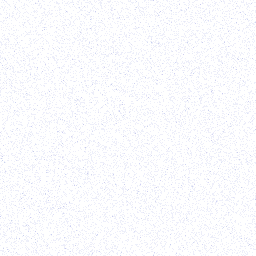
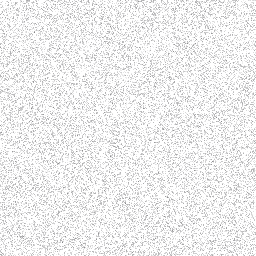
blob less shit but still ass

Changed region(s): [[0.0, 0.0, 1.0, 1.0]]

diff --git a/components/BlobMorph.tsx b/components/BlobMorph.tsx
@@ -134,23 +134,54 @@ const MESH_SETTLE_START = 0.55;            // begin calming before shape lock
 const MESH_SETTLE_END = KEY_RIGID_PROGRESS; // fully calm once key is rigid
 
 /* --- Blob film grain (visual layer only) --------------------------------
-   TWO static grain layers + a directional veil + a soft inner sheen, all
+   A single soft grain layer + a directional veil + a soft inner sheen, all
    clipped to the blob silhouette. Not filters, not animated, not per-frame:
-   static <pattern>+<rect> pairs feeding phase-linked opacities (React render
-   values). Tiles: public/blob-grain.png (~20-25% density, cool off-white
-   specks, sparkle tail to 0.85) and public/blob-grain-coarse.png (~4%
-   density, soft violet clumps). Strength lerps the *_ALIVE -> *_CALM constants
-   with the mesh settle; the lerped view opacity is clamped to SVG's 0..1
-   range so the whole fade is visible across the settle. Static, so reduced
-   motion needs no special case. */
+   a static <pattern>+<rect> feeding a phase-linked opacity (React render
+   value). Tile: public/blob-grain.png (soft neutral-gray film grain, ~40%
+   density, alpha ~0.25). Strength lerps GRAIN_ALIVE -> GRAIN_CALM with the
+   mesh settle; the lerped view opacity is clamped to SVG's 0..1 range.
+   Static, so reduced motion needs no special case. */
 const GRAIN_ALIVE = 1;
 const GRAIN_CALM = 0.35;
 const GRAIN_TILE_PX = 256; // tile edge in px (density lives in the tile itself)
 
-/* Coarse clump layer: faint violet dust read between the fine texels.
-   Sits under the fine grain and nearly vanishes in the calm state. */
-const COARSE_ALIVE = 1;
-const COARSE_CALM = 0.2;
+/* --- Drifting dark-gray gradients (visual layer only) -------------------
+   Broad, soft tonal shifts riding under the grain, like light moving across
+   a matte surface. Pure-translate CSS animation only (no filters/masks);
+   each circle carries its own duration + travel via CSS custom props, and
+   its phase-linked opacity from React (per-circle, avoiding a group blur
+   layer). MESH_GRAY_ALIVE -> MESH_GRAY_CALM with the mesh settle, so the key
+   resolves on near-pure black. Peak stop alphas are tuned to the luminance
+   budget (see measure notes); the largest circle gets the higher peak. */
+const MESH_GRAY_ALIVE = 1;
+const MESH_GRAY_CALM = 0.1;
+const MESH_GRAY_COLOR = "#2b2b31"; // peak gray, very slight cool lean
+/* Eased radial falloff (offset, factor-of-peak) — 6 stops so no ring/edge. */
+const MESH_GRAY_STOPS: ReadonlyArray<readonly [number, number]> = [
+  [0, 1],
+  [0.22, 0.72],
+  [0.42, 0.48],
+  [0.62, 0.26],
+  [0.82, 0.1],
+  [1, 0],
+];
+/* cx, cy, r (viewBox units), peak stop alpha, animation duration (s), and
+   per-axis travel (viewBox units each way). */
+const MESH_GRAY_CIRCLES: ReadonlyArray<{
+  readonly cx: number;
+  readonly cy: number;
+  readonly r: number;
+  readonly peak: number;
+  readonly dur: number;
+  readonly tx: number;
+  readonly ty: number;
+}> = [
+  { cx: 100, cy: 100, r: 95, peak: 0.54, dur: 24, tx: 13, ty: -11 },
+  { cx: 58, cy: 132, r: 78, peak: 0.36, dur: 29, tx: -12, ty: 12 },
+  { cx: 142, cy: 58, r: 72, peak: 0.36, dur: 32, tx: 12, ty: -14 },
+];
+/* CSS class used for the drift animation (defined in globals.css). */
+const MESH_GRAY_DRIFT_CLASS = "blob-gray-drift";
 
 /* Directional veil: linearGradient in objectBoundingBox units (0..1),
    transparent until GRAIN_VEIL_START_RAMP along the diagonal, ramping to
@@ -672,12 +703,11 @@ export function BlobMorph({ progress = 0 }: BlobMorphProps) {
   }, []);
 
   /* Phase-linked intensities: lerp the *_ALIVE -> *_CALM constants with the
-     mesh settle, clamped to SVG's 0..1 opacity range so the whole fade is
-     visible (never pegged at 1). React render values only — never written
-     from the tick. */
+     mesh settle, clamped to SVG's 0..1 opacity range. React render values
+     only — never written from the tick. */
   const meshSettle = computeMeshSettle(progress);
   const grainOpacity = Math.min(1, Math.max(0, GRAIN_ALIVE + (GRAIN_CALM - GRAIN_ALIVE) * meshSettle));
-  const coarseOpacity = Math.min(1, Math.max(0, COARSE_ALIVE + (COARSE_CALM - COARSE_ALIVE) * meshSettle));
+  const grayOpacity = Math.min(1, Math.max(0, MESH_GRAY_ALIVE + (MESH_GRAY_CALM - MESH_GRAY_ALIVE) * meshSettle));
   const sheenPeak = GRAIN_SHEEN_PEAK_ALIVE + (GRAIN_SHEEN_PEAK_CALM - GRAIN_SHEEN_PEAK_ALIVE) * meshSettle;
 
   return (
@@ -737,7 +767,31 @@ export function BlobMorph({ progress = 0 }: BlobMorphProps) {
           <stop offset={`${GRAIN_VEIL_START_RAMP * 100}%`} stopColor="#000000" stopOpacity="0" />
           <stop offset="100%" stopColor="#000000" stopOpacity={GRAIN_VEIL_MAX_OPACITY} />
         </linearGradient>
-        {/* Static film-grain tiles, sized in user units so each texel is
+        {/* Drifting dark-gray radial gradients: broad soft tonal fields
+              under the grain, one per circle in MESH_GRAY_CIRCLES. Eased 6-stop
+              falloff to fully transparent at the edge (no ring), peak per
+              circle tuned to the luminance budget. Plain gradients — no
+              filters or masks. */}
+        {MESH_GRAY_CIRCLES.map((c, i) => (
+          <radialGradient
+            key={c.cx}
+            id={`blob-gray-${i + 1}`}
+            gradientUnits="userSpaceOnUse"
+            cx={c.cx}
+            cy={c.cy}
+            r={c.r}
+          >
+            {MESH_GRAY_STOPS.map(([offset, factor]) => (
+              <stop
+                key={offset}
+                offset={`${offset * 100}%`}
+                stopColor={MESH_GRAY_COLOR}
+                stopOpacity={c.peak * factor}
+              />
+            ))}
+          </radialGradient>
+        ))}
+        {/* Static film-grain tile, sized in user units so each texel is
               exactly 1 DEVICE pixel: tileUnits = 256 * 200 / (blobPx * dpr)
               (see grainTileUnits). patternUnits="userSpaceOnUse" pins the
               tile size to the 200-unit viewBox, not the 0..1 box. Default
@@ -751,19 +805,6 @@ export function BlobMorph({ progress = 0 }: BlobMorphProps) {
         >
           <image
             href="/blob-grain.png"
-            width={grainTileUnits}
-            height={grainTileUnits}
-            preserveAspectRatio="none"
-          />
-        </pattern>
-        <pattern
-          id="blob-grain-coarse"
-          patternUnits="userSpaceOnUse"
-          width={grainTileUnits}
-          height={grainTileUnits}
-        >
-          <image
-            href="/blob-grain-coarse.png"
             width={grainTileUnits}
             height={grainTileUnits}
             preserveAspectRatio="none"
@@ -801,17 +842,34 @@ export function BlobMorph({ progress = 0 }: BlobMorphProps) {
       </g>
 
       {/* Grain field, inside the blob silhouette. Flat black base, then the
-            coarse clump layer, then the fine grain tile, then the directional
-            veil: texture is strongest top-left and veiled toward the
-            bottom-right, but the veil stops short of pure black so grain
-            survives everywhere. The inner edge sheen <use> re-draws the same
-            silhouette as a static stroke, clipped so only its inner half
-            shows — a soft rim light that follows the morph for free. All
-            static content; only the opacities are phase-linked (React props,
-            not per-frame). */}
+            drifting dark-gray radial gradients, then the fine grain tile, then
+            the directional veil: subtle light plays across the surface and is
+            veiled toward the bottom-right, but the veil stops short of pure
+            black so grain survives everywhere. The inner edge sheen <use>
+            re-draws the same silhouette as a static stroke, clipped so only
+            its inner half shows — a soft rim light that follows the morph for
+            free. All content is static or CSS-animated (pure translate); the
+            opacities are phase-linked React props, not per-frame writes. */}
       <g clipPath="url(#blob-mesh-clip)">
         <rect width="200" height="200" fill="#000000" />
-        <rect width="200" height="200" fill="url(#blob-grain-coarse)" opacity={coarseOpacity} />
+        {MESH_GRAY_CIRCLES.map((c, i) => (
+          <circle
+            key={c.cx}
+            className={MESH_GRAY_DRIFT_CLASS}
+            cx={c.cx}
+            cy={c.cy}
+            r={c.r}
+            fill={`url(#blob-gray-${i + 1})`}
+            opacity={grayOpacity}
+            style={
+              {
+                "--gray-dur": `${c.dur}s`,
+                "--gray-tx": `${c.tx}px`,
+                "--gray-ty": `${c.ty}px`,
+              } as React.CSSProperties
+            }
+          />
+        ))}
         <rect width="200" height="200" fill="url(#blob-grain)" opacity={grainOpacity} />
         <rect width="200" height="200" fill="url(#blob-veil)" />
         <use

diff --git a/app/globals.css b/app/globals.css
@@ -769,6 +769,34 @@ body::after {
     0 0 42px rgba(92, 111, 199, 0.18);
 }
 
+/* ---------- Blob gray drift ----------
+   Slow tonal movement for the dark-gray gradient circles inside the blob.
+   Pure translate only (compositor-friendly; no filters/masks), driven by
+   per-circle CSS vars (--gray-dur / --gray-tx / --gray-ty) set from the
+   MESH_GRAY_CIRCLES constants in BlobMorph. Reduced motion: static. */
+.blob-gray-drift {
+  animation: blob-gray-drift var(--gray-dur, 24s) ease-in-out infinite alternate;
+  will-change: transform;
+}
+
+@keyframes blob-gray-drift {
+  from {
+    transform: translate(
+      calc(var(--gray-tx, 0px) * -1),
+      calc(var(--gray-ty, 0px) * -1)
+    );
+  }
+  to {
+    transform: translate(var(--gray-tx, 0px), var(--gray-ty, 0px));
+  }
+}
+
+@media (prefers-reduced-motion: reduce) {
+  .blob-gray-drift {
+    animation: none;
+  }
+}
+
 /* ---------- Screen Reader Only ---------- */
 .sr-only {
   position: absolute;
